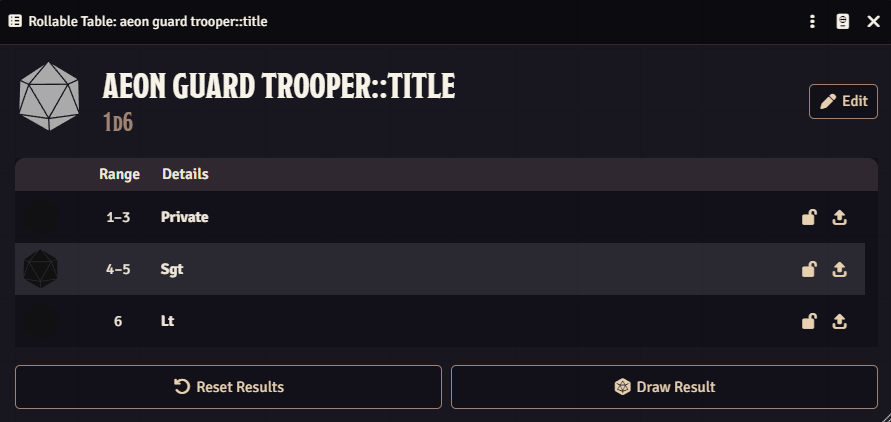
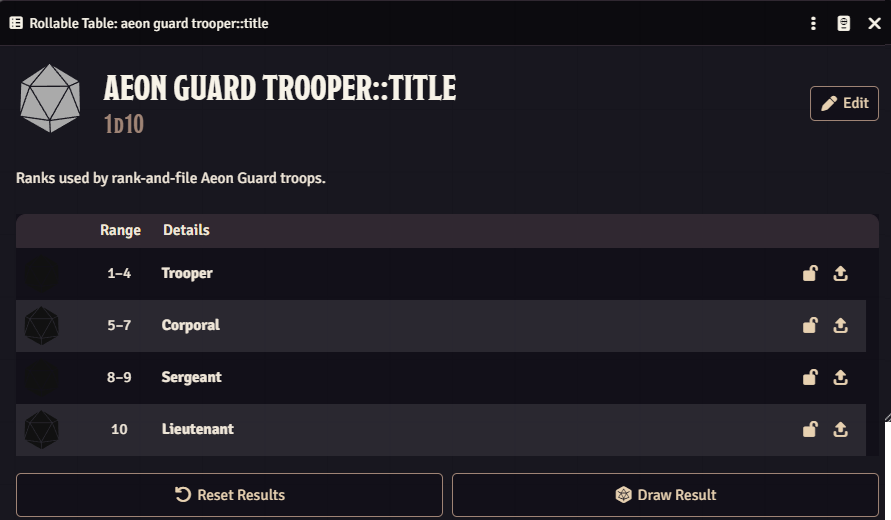
readme/images

diff --git a/README.md b/README.md
@@ -78,7 +78,7 @@ The generated result is then combined as:
 
 For example:
 
-- `Lieutenant John Graxton (Aeon Guard Trooper)`
+- `Lieutenant Vanya Voss (Aeon Guard Trooper)`
 
 If any part is missing, the module still uses the components that exist. If no components exist, then the original template name is left untouched.
 
